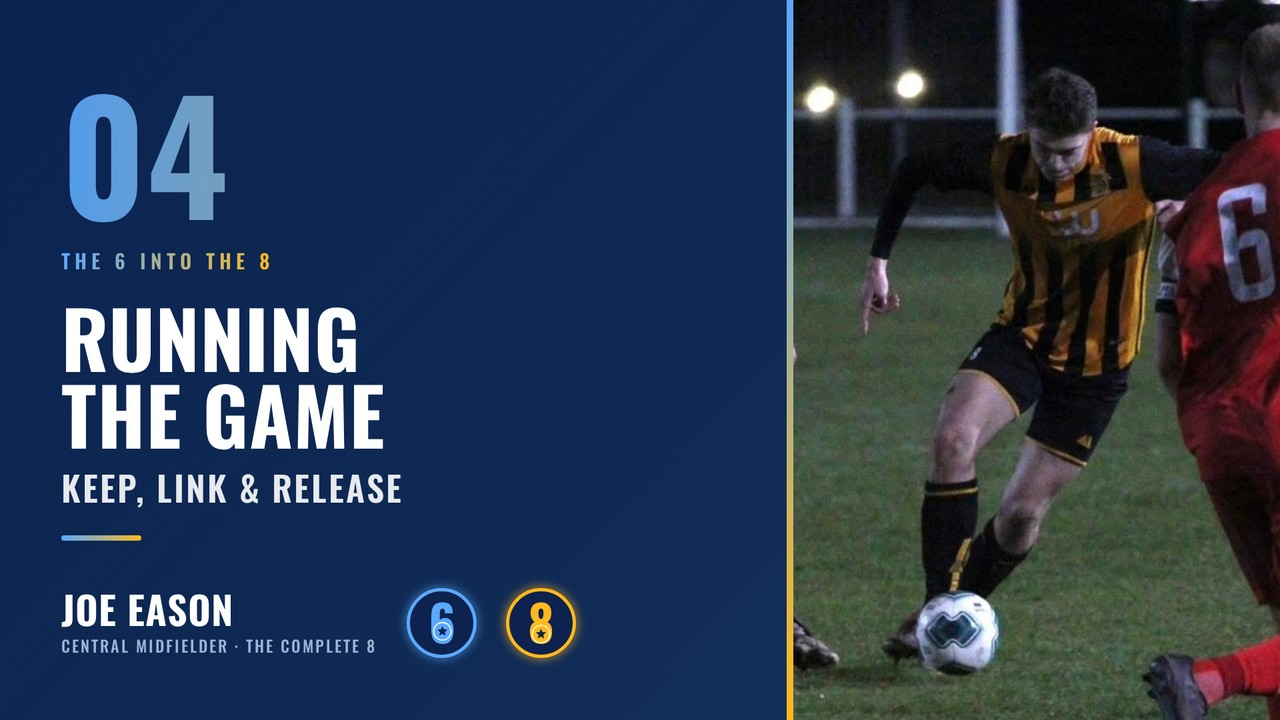
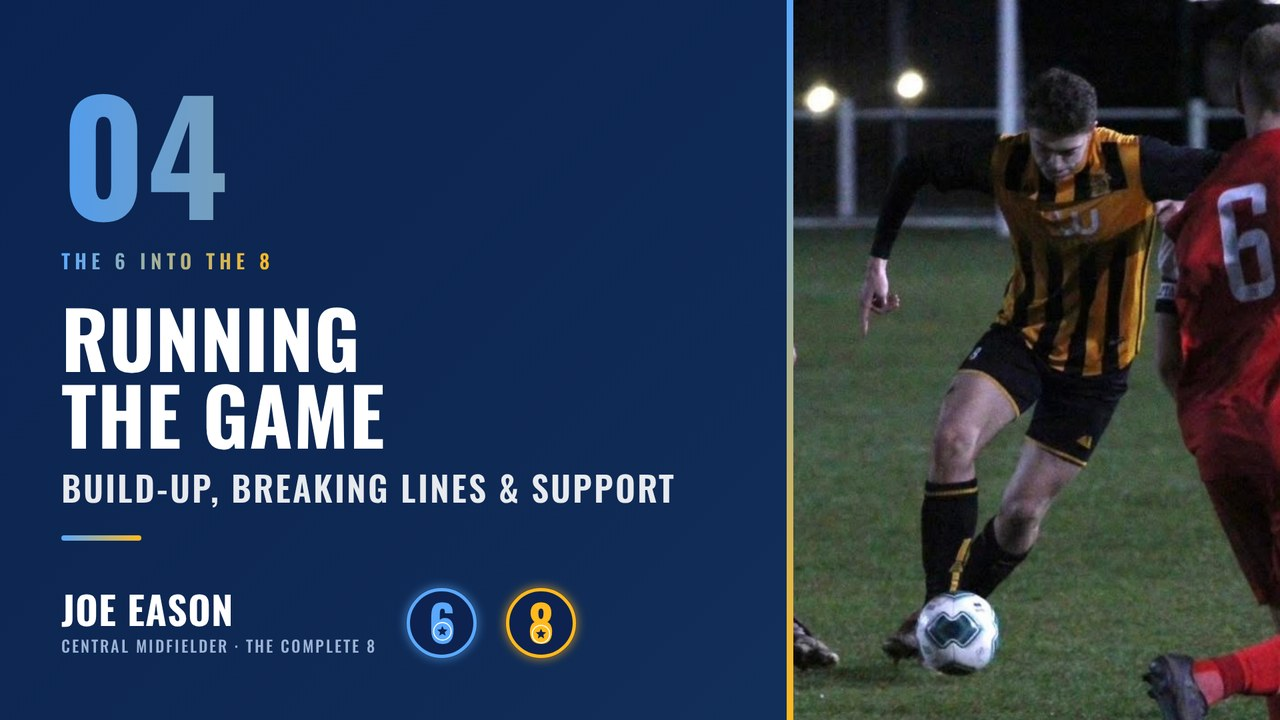
Video names

Changed region(s): [[0.0312, 0.6417, 0.5312, 0.7028]]

diff --git a/_test-home-8.html b/_test-home-8.html
@@ -1169,13 +1169,13 @@
             <g transform="translate(702.23 468.98)"><g class="petal-play"><circle r="24" fill="rgba(0,48,135,0.95)" stroke="#fff" stroke-width="2"/><polygon points="-7,-10 -7,10 10,0" fill="#fff"/></g></g>
             <g class="pt-full"><text x="602.79" y="428.28" class="petal-title" text-anchor="middle"><tspan x="602.79" dy="0">Range of</tspan><tspan x="602.79" dy="18">Passing</tspan><tspan x="602.79" dy="18" class="petal-sub">Forward Balls,</tspan><tspan x="602.79" dy="16" class="petal-sub">Switches &amp; Crosses</tspan></text>
           <text x="602.79" y="404.28" class="petal-num" text-anchor="middle">03</text></g><g class="pt-big"><text x="602.79" y="416.78" class="petal-num pt-n" text-anchor="middle">03</text><text x="602.79" y="443.78" class="pt-t" text-anchor="middle"><tspan x="602.79" dy="0">Range of</tspan><tspan x="602.79" dy="25">Passing</tspan></text></g></a>
-          <a href="https://www.youtube.com/watch?v=YSjKQWCiEPw" target="_blank" rel="noopener" class="petal gh" data-vid="YSjKQWCiEPw" data-title="Running the Game: Keep, Link &amp; Release" aria-label="Running the Game: Keep, Link & Release — play video">
+          <a href="https://www.youtube.com/watch?v=YSjKQWCiEPw" target="_blank" rel="noopener" class="petal gh" data-vid="YSjKQWCiEPw" data-title="Running the Game: Build-Up, Breaking Lines &amp; Support" aria-label="Running the Game: Build-Up, Breaking Lines & Support — play video">
             <path d="M 513.26 495.27 A 148 148 0 0 1 403.87 547.95 L 409.95 779.87 A 380 380 0 0 0 690.79 644.62 Z" fill="url(#pat-p3)" class="petal-img"/>
             <path d="M 513.26 495.27 A 148 148 0 0 1 403.87 547.95 L 409.95 779.87 A 380 380 0 0 0 690.79 644.62 Z" fill="url(#darken)" class="petal-shade"/>
             <path d="M 513.26 495.27 A 148 148 0 0 1 403.87 547.95 L 409.95 779.87 A 380 380 0 0 0 690.79 644.62 Z" class="petal-stroke" fill="none"/>
             <g transform="translate(534.50 679.30)"><g class="petal-play"><circle r="24" fill="rgba(0,48,135,0.95)" stroke="#fff" stroke-width="2"/><polygon points="-7,-10 -7,10 10,0" fill="#fff"/></g></g>
-            <g class="pt-full"><text x="490.25" y="587.40" class="petal-title" text-anchor="middle"><tspan x="490.25" dy="0">Running the Game</tspan><tspan x="490.25" dy="18" class="petal-sub">Keep, Link &amp; Release</tspan></text>
-          <text x="490.25" y="563.40" class="petal-num" text-anchor="middle">04</text></g><g class="pt-big"><text x="490.25" y="558.90" class="petal-num pt-n" text-anchor="middle">04</text><text x="490.25" y="585.90" class="pt-t" text-anchor="middle"><tspan x="490.25" dy="0">Running</tspan><tspan x="490.25" dy="25">the Game</tspan></text></g></a>
+            <g class="pt-full"><text x="490.25" y="579.40" class="petal-title" text-anchor="middle"><tspan x="490.25" dy="0">Running the Game</tspan><tspan x="490.25" dy="18" class="petal-sub">Build-Up, Breaking Lines</tspan><tspan x="490.25" dy="16" class="petal-sub">&amp; Support</tspan></text>
+          <text x="490.25" y="555.40" class="petal-num" text-anchor="middle">04</text></g><g class="pt-big"><text x="490.25" y="558.90" class="petal-num pt-n" text-anchor="middle">04</text><text x="490.25" y="585.90" class="pt-t" text-anchor="middle"><tspan x="490.25" dy="0">Running</tspan><tspan x="490.25" dy="25">the Game</tspan></text></g></a>
           <a href="https://www.youtube.com/watch?v=tidNVF270xU" target="_blank" rel="noopener" class="petal g8" data-vid="tidNVF270xU" data-title="Driving the Team Forward: Ball Carrying" aria-label="Driving the Team Forward: Ball Carrying — play video">
             <path d="M 396.13 547.95 A 148 148 0 0 1 286.74 495.27 L 109.21 644.62 A 380 380 0 0 0 390.05 779.87 Z" fill="url(#pat-p4)" class="petal-img"/>
             <path d="M 396.13 547.95 A 148 148 0 0 1 286.74 495.27 L 109.21 644.62 A 380 380 0 0 0 390.05 779.87 Z" fill="url(#darken)" class="petal-shade"/>
@@ -1234,9 +1234,9 @@
           <div class="m-tile-body"><h3><span class="m-num">03</span>Range of Passing: Forward Balls, Switches &amp; Crosses</h3><p>Switching play, crossing, delivery</p></div>
         </a>
         <div class="m-group gh"><b>Running the Game</b>The 6 into the 8 &middot; 04</div>
-        <a href="https://www.youtube.com/watch?v=YSjKQWCiEPw" target="_blank" rel="noopener" class="m-tile gh" data-vid="YSjKQWCiEPw" data-title="Running the Game: Keep, Link &amp; Release">
+        <a href="https://www.youtube.com/watch?v=YSjKQWCiEPw" target="_blank" rel="noopener" class="m-tile gh" data-vid="YSjKQWCiEPw" data-title="Running the Game: Build-Up, Breaking Lines &amp; Support">
           <div class="m-tile-thumb"><img src="img/card-04.jpg" alt=""></div>
-          <div class="m-tile-body"><h3><span class="m-num">04</span>Running the Game: Keep, Link &amp; Release</h3><p>Keeping it, linking play, releasing runners</p></div>
+          <div class="m-tile-body"><h3><span class="m-num">04</span>Running the Game: Build-Up, Breaking Lines &amp; Support</h3><p>Playing through, always available, setting the pace</p></div>
         </a>
         <div class="m-group g8"><b>The 8</b>Box to box &middot; 05&ndash;07</div>
         <a href="https://www.youtube.com/watch?v=tidNVF270xU" target="_blank" rel="noopener" class="m-tile g8" data-vid="tidNVF270xU" data-title="Driving the Team Forward: Ball Carrying">
@@ -1270,7 +1270,7 @@
         <p>Seven competencies on film at Step 4 and Step 5, plus the intangibles that make the eighth &mdash; and the end product it all adds up to.</p>
         <a class="h8-analysis" href="central-midfielder.html"><span>What makes a good all-round central midfielder?</span><b>Read the analysis <i class="fas fa-arrow-right"></i></b></a>
         <div class="kg kg6"><div class="kg-h"><span class="kg-t">The 6</span><span class="kg-s">Holding midfielder &middot; 01&ndash;03</span></div><a class="ki" data-k="0" href="https://www.youtube.com/watch?v=nmPGCvV8c5w" target="_blank" rel="noopener" data-vid="nmPGCvV8c5w" data-title="Press Resistance: Receiving &amp; Turning"><b>01</b><span class="ki-t">Press Resistance</span><span class="ki-s">Receiving &amp; Turning</span><span class="ki-d">Back foot, play forward</span></a><a class="ki" data-k="1" href="https://www.youtube.com/watch?v=CUZYd_yoax8" target="_blank" rel="noopener" data-vid="CUZYd_yoax8" data-title="Screening the Back Four: Blocks, Cover &amp; Interceptions"><b>02</b><span class="ki-t">Screening the Back Four</span><span class="ki-s">Blocks, Cover &amp; Interceptions</span><span class="ki-d">Reading it, stepping in, screening the back four</span></a><a class="ki" data-k="2" href="https://www.youtube.com/watch?v=DRo2E2lNBT0" target="_blank" rel="noopener" data-vid="DRo2E2lNBT0" data-title="Range of Passing: Forward Balls, Switches &amp; Crosses"><b>03</b><span class="ki-t">Range of Passing</span><span class="ki-s">Forward Balls, Switches &amp; Crosses</span><span class="ki-d">Switching play, crossing, delivery</span></a></div>
-        <div class="kg kgh"><div class="kg-h"><span class="kg-t">Running the Game</span><span class="kg-s">The 6 into the 8 &middot; 04</span></div><a class="ki" data-k="3" href="https://www.youtube.com/watch?v=YSjKQWCiEPw" target="_blank" rel="noopener" data-vid="YSjKQWCiEPw" data-title="Running the Game: Keep, Link &amp; Release"><b>04</b><span class="ki-t">Running the Game</span><span class="ki-s">Keep, Link &amp; Release</span><span class="ki-d">Keeping it, linking play, releasing runners</span></a></div>
+        <div class="kg kgh"><div class="kg-h"><span class="kg-t">Running the Game</span><span class="kg-s">The 6 into the 8 &middot; 04</span></div><a class="ki" data-k="3" href="https://www.youtube.com/watch?v=YSjKQWCiEPw" target="_blank" rel="noopener" data-vid="YSjKQWCiEPw" data-title="Running the Game: Build-Up, Breaking Lines &amp; Support"><b>04</b><span class="ki-t">Running the Game</span><span class="ki-s">Build-Up, Breaking Lines &amp; Support</span><span class="ki-d">Playing through, always available, setting the pace</span></a></div>
         <div class="kg kg8"><div class="kg-h"><span class="kg-t">The 8</span><span class="kg-s">Box to box &middot; 05&ndash;07</span></div><a class="ki" data-k="4" href="https://www.youtube.com/watch?v=tidNVF270xU" target="_blank" rel="noopener" data-vid="tidNVF270xU" data-title="Driving the Team Forward: Ball Carrying"><b>05</b><span class="ki-t">Driving the Team Forward</span><span class="ki-s">Ball Carrying</span><span class="ki-d">Driving runs, beating pressure</span></a><a class="ki" data-k="5" href="https://www.youtube.com/watch?v=xvypi_6BQps" target="_blank" rel="noopener" data-vid="xvypi_6BQps" data-title="Winning the Battles: Tackles, Recovery Runs &amp; Headers"><b>06</b><span class="ki-t">Winning the Battles</span><span class="ki-s">Tackles, Recovery Runs &amp; Headers</span><span class="ki-d">Going in, getting back, winning in the air</span></a><a class="ki" data-k="6" href="https://www.youtube.com/watch?v=DMwCNd98Mjw" target="_blank" rel="noopener" data-vid="DMwCNd98Mjw" data-title="Technical Quality: First Touch, Volleys &amp; Quick Feet"><b>07</b><span class="ki-t">Technical Quality</span><span class="ki-s">First Touch, Volleys &amp; Quick Feet</span><span class="ki-d">First touch, composure, execution</span></a></div>
         <div class="kg kg10"><div class="kg-h"><span class="kg-t">08 + The 10</span><span class="kg-s">In the middle</span></div><a class="ki ki8th" data-k="8th" href="central-midfielder.html#leadership"><b>08</b><span class="ki-t">The Bit You Can&rsquo;t Coach</span><span class="ki-s">The Intangibles</span><span class="ki-d">Leadership and on-field personality</span></a><a class="ki ki10" data-k="10" href="https://www.youtube.com/watch?v=8nT0fmOoSeg" target="_blank" rel="noopener" data-vid="8nT0fmOoSeg" data-title="End Product: Chances Created, Assists &amp; Goals" data-more="central-midfielder.html#end-product"><b>10</b><span class="ki-t">End Product</span><span class="ki-s">Chances Created, Assists &amp; Goals</span><span class="ki-d">From senior men&rsquo;s football at Step 5 and Step 4</span></a></div>
       </div>

diff --git a/index.html b/index.html
@@ -1164,13 +1164,13 @@
             <g transform="translate(702.23 468.98)"><g class="petal-play"><circle r="24" fill="rgba(0,48,135,0.95)" stroke="#fff" stroke-width="2"/><polygon points="-7,-10 -7,10 10,0" fill="#fff"/></g></g>
             <g class="pt-full"><text x="602.79" y="428.28" class="petal-title" text-anchor="middle"><tspan x="602.79" dy="0">Range of</tspan><tspan x="602.79" dy="18">Passing</tspan><tspan x="602.79" dy="18" class="petal-sub">Forward Balls,</tspan><tspan x="602.79" dy="16" class="petal-sub">Switches &amp; Crosses</tspan></text>
           <text x="602.79" y="404.28" class="petal-num" text-anchor="middle">03</text></g><g class="pt-big"><text x="602.79" y="416.78" class="petal-num pt-n" text-anchor="middle">03</text><text x="602.79" y="443.78" class="pt-t" text-anchor="middle"><tspan x="602.79" dy="0">Range of</tspan><tspan x="602.79" dy="25">Passing</tspan></text></g></a>
-          <a href="https://www.youtube.com/watch?v=YSjKQWCiEPw" target="_blank" rel="noopener" class="petal gh" data-vid="YSjKQWCiEPw" data-title="Running the Game: Keep, Link &amp; Release" aria-label="Running the Game: Keep, Link & Release — play video">
+          <a href="https://www.youtube.com/watch?v=YSjKQWCiEPw" target="_blank" rel="noopener" class="petal gh" data-vid="YSjKQWCiEPw" data-title="Running the Game: Build-Up, Breaking Lines &amp; Support" aria-label="Running the Game: Build-Up, Breaking Lines & Support — play video">
             <path d="M 513.26 495.27 A 148 148 0 0 1 403.87 547.95 L 409.95 779.87 A 380 380 0 0 0 690.79 644.62 Z" fill="url(#pat-p3)" class="petal-img"/>
             <path d="M 513.26 495.27 A 148 148 0 0 1 403.87 547.95 L 409.95 779.87 A 380 380 0 0 0 690.79 644.62 Z" fill="url(#darken)" class="petal-shade"/>
             <path d="M 513.26 495.27 A 148 148 0 0 1 403.87 547.95 L 409.95 779.87 A 380 380 0 0 0 690.79 644.62 Z" class="petal-stroke" fill="none"/>
             <g transform="translate(534.50 679.30)"><g class="petal-play"><circle r="24" fill="rgba(0,48,135,0.95)" stroke="#fff" stroke-width="2"/><polygon points="-7,-10 -7,10 10,0" fill="#fff"/></g></g>
-            <g class="pt-full"><text x="490.25" y="587.40" class="petal-title" text-anchor="middle"><tspan x="490.25" dy="0">Running the Game</tspan><tspan x="490.25" dy="18" class="petal-sub">Keep, Link &amp; Release</tspan></text>
-          <text x="490.25" y="563.40" class="petal-num" text-anchor="middle">04</text></g><g class="pt-big"><text x="490.25" y="558.90" class="petal-num pt-n" text-anchor="middle">04</text><text x="490.25" y="585.90" class="pt-t" text-anchor="middle"><tspan x="490.25" dy="0">Running</tspan><tspan x="490.25" dy="25">the Game</tspan></text></g></a>
+            <g class="pt-full"><text x="490.25" y="579.40" class="petal-title" text-anchor="middle"><tspan x="490.25" dy="0">Running the Game</tspan><tspan x="490.25" dy="18" class="petal-sub">Build-Up, Breaking Lines</tspan><tspan x="490.25" dy="16" class="petal-sub">&amp; Support</tspan></text>
+          <text x="490.25" y="555.40" class="petal-num" text-anchor="middle">04</text></g><g class="pt-big"><text x="490.25" y="558.90" class="petal-num pt-n" text-anchor="middle">04</text><text x="490.25" y="585.90" class="pt-t" text-anchor="middle"><tspan x="490.25" dy="0">Running</tspan><tspan x="490.25" dy="25">the Game</tspan></text></g></a>
           <a href="https://www.youtube.com/watch?v=tidNVF270xU" target="_blank" rel="noopener" class="petal g8" data-vid="tidNVF270xU" data-title="Driving the Team Forward: Ball Carrying" aria-label="Driving the Team Forward: Ball Carrying — play video">
             <path d="M 396.13 547.95 A 148 148 0 0 1 286.74 495.27 L 109.21 644.62 A 380 380 0 0 0 390.05 779.87 Z" fill="url(#pat-p4)" class="petal-img"/>
             <path d="M 396.13 547.95 A 148 148 0 0 1 286.74 495.27 L 109.21 644.62 A 380 380 0 0 0 390.05 779.87 Z" fill="url(#darken)" class="petal-shade"/>
@@ -1229,9 +1229,9 @@
           <div class="m-tile-body"><h3><span class="m-num">03</span>Range of Passing: Forward Balls, Switches &amp; Crosses</h3><p>Switching play, crossing, delivery</p></div>
         </a>
         <div class="m-group gh"><b>Running the Game</b>The 6 into the 8 &middot; 04</div>
-        <a href="https://www.youtube.com/watch?v=YSjKQWCiEPw" target="_blank" rel="noopener" class="m-tile gh" data-vid="YSjKQWCiEPw" data-title="Running the Game: Keep, Link &amp; Release">
+        <a href="https://www.youtube.com/watch?v=YSjKQWCiEPw" target="_blank" rel="noopener" class="m-tile gh" data-vid="YSjKQWCiEPw" data-title="Running the Game: Build-Up, Breaking Lines &amp; Support">
           <div class="m-tile-thumb"><img src="img/card-04.jpg" alt=""></div>
-          <div class="m-tile-body"><h3><span class="m-num">04</span>Running the Game: Keep, Link &amp; Release</h3><p>Keeping it, linking play, releasing runners</p></div>
+          <div class="m-tile-body"><h3><span class="m-num">04</span>Running the Game: Build-Up, Breaking Lines &amp; Support</h3><p>Playing through, always available, setting the pace</p></div>
         </a>
         <div class="m-group g8"><b>The 8</b>Box to box &middot; 05&ndash;07</div>
         <a href="https://www.youtube.com/watch?v=tidNVF270xU" target="_blank" rel="noopener" class="m-tile g8" data-vid="tidNVF270xU" data-title="Driving the Team Forward: Ball Carrying">
@@ -1265,7 +1265,7 @@
         <p>Seven competencies on film at Step 4 and Step 5, plus the intangibles that make the eighth &mdash; and the end product it all adds up to.</p>
         <a class="h8-analysis" href="central-midfielder.html"><span>What makes a good all-round central midfielder?</span><b>Read the analysis <i class="fas fa-arrow-right"></i></b></a>
         <div class="kg kg6"><div class="kg-h"><span class="kg-t">The 6</span><span class="kg-s">Holding midfielder &middot; 01&ndash;03</span></div><a class="ki" data-k="0" href="https://www.youtube.com/watch?v=nmPGCvV8c5w" target="_blank" rel="noopener" data-vid="nmPGCvV8c5w" data-title="Press Resistance: Receiving &amp; Turning"><b>01</b><span class="ki-t">Press Resistance</span><span class="ki-s">Receiving &amp; Turning</span><span class="ki-d">Back foot, play forward</span></a><a class="ki" data-k="1" href="https://www.youtube.com/watch?v=CUZYd_yoax8" target="_blank" rel="noopener" data-vid="CUZYd_yoax8" data-title="Screening the Back Four: Blocks, Cover &amp; Interceptions"><b>02</b><span class="ki-t">Screening the Back Four</span><span class="ki-s">Blocks, Cover &amp; Interceptions</span><span class="ki-d">Reading it, stepping in, screening the back four</span></a><a class="ki" data-k="2" href="https://www.youtube.com/watch?v=DRo2E2lNBT0" target="_blank" rel="noopener" data-vid="DRo2E2lNBT0" data-title="Range of Passing: Forward Balls, Switches &amp; Crosses"><b>03</b><span class="ki-t">Range of Passing</span><span class="ki-s">Forward Balls, Switches &amp; Crosses</span><span class="ki-d">Switching play, crossing, delivery</span></a></div>
-        <div class="kg kgh"><div class="kg-h"><span class="kg-t">Running the Game</span><span class="kg-s">The 6 into the 8 &middot; 04</span></div><a class="ki" data-k="3" href="https://www.youtube.com/watch?v=YSjKQWCiEPw" target="_blank" rel="noopener" data-vid="YSjKQWCiEPw" data-title="Running the Game: Keep, Link &amp; Release"><b>04</b><span class="ki-t">Running the Game</span><span class="ki-s">Keep, Link &amp; Release</span><span class="ki-d">Keeping it, linking play, releasing runners</span></a></div>
+        <div class="kg kgh"><div class="kg-h"><span class="kg-t">Running the Game</span><span class="kg-s">The 6 into the 8 &middot; 04</span></div><a class="ki" data-k="3" href="https://www.youtube.com/watch?v=YSjKQWCiEPw" target="_blank" rel="noopener" data-vid="YSjKQWCiEPw" data-title="Running the Game: Build-Up, Breaking Lines &amp; Support"><b>04</b><span class="ki-t">Running the Game</span><span class="ki-s">Build-Up, Breaking Lines &amp; Support</span><span class="ki-d">Playing through, always available, setting the pace</span></a></div>
         <div class="kg kg8"><div class="kg-h"><span class="kg-t">The 8</span><span class="kg-s">Box to box &middot; 05&ndash;07</span></div><a class="ki" data-k="4" href="https://www.youtube.com/watch?v=tidNVF270xU" target="_blank" rel="noopener" data-vid="tidNVF270xU" data-title="Driving the Team Forward: Ball Carrying"><b>05</b><span class="ki-t">Driving the Team Forward</span><span class="ki-s">Ball Carrying</span><span class="ki-d">Driving runs, beating pressure</span></a><a class="ki" data-k="5" href="https://www.youtube.com/watch?v=xvypi_6BQps" target="_blank" rel="noopener" data-vid="xvypi_6BQps" data-title="Winning the Battles: Tackles, Recovery Runs &amp; Headers"><b>06</b><span class="ki-t">Winning the Battles</span><span class="ki-s">Tackles, Recovery Runs &amp; Headers</span><span class="ki-d">Going in, getting back, winning in the air</span></a><a class="ki" data-k="6" href="https://www.youtube.com/watch?v=DMwCNd98Mjw" target="_blank" rel="noopener" data-vid="DMwCNd98Mjw" data-title="Technical Quality: First Touch, Volleys &amp; Quick Feet"><b>07</b><span class="ki-t">Technical Quality</span><span class="ki-s">First Touch, Volleys &amp; Quick Feet</span><span class="ki-d">First touch, composure, execution</span></a></div>
         <div class="kg kg10"><div class="kg-h"><span class="kg-t">08 + The 10</span><span class="kg-s">In the middle</span></div><a class="ki ki8th" data-k="8th" href="central-midfielder.html#leadership"><b>08</b><span class="ki-t">The Bit You Can&rsquo;t Coach</span><span class="ki-s">The Intangibles</span><span class="ki-d">Leadership and on-field personality</span></a><a class="ki ki10" data-k="10" href="https://www.youtube.com/watch?v=8nT0fmOoSeg" target="_blank" rel="noopener" data-vid="8nT0fmOoSeg" data-title="End Product: Chances Created, Assists &amp; Goals" data-more="central-midfielder.html#end-product"><b>10</b><span class="ki-t">End Product</span><span class="ki-s">Chances Created, Assists &amp; Goals</span><span class="ki-d">From senior men&rsquo;s football at Step 5 and Step 4</span></a></div>
       </div>

diff --git a/central-midfielder.html b/central-midfielder.html
@@ -785,7 +785,7 @@
       </button>
       <button class="c8-tab gh" data-tab="4" role="tab" aria-selected="false" type="button">
         <div class="c8-tab-thumb"><img src="img/card-04.jpg" alt=""><span class="c8-tab-num">04</span></div>
-        <div class="c8-tab-title">Running the Game: Keep, Link &amp; Release</div>
+        <div class="c8-tab-title">Running the Game: Build-Up, Breaking Lines &amp; Support</div>
       </button>
       <button class="c8-tab g8" data-tab="1" role="tab" aria-selected="false" type="button">
         <div class="c8-tab-thumb"><img src="img/card-05.jpg" alt=""><span class="c8-tab-num">05</span></div>
@@ -988,19 +988,19 @@
         </div>
       </div>
 
-      <!-- PANEL 4 — RUNNING THE GAME: KEEP, LINK & RELEASE (6 into 8) -->
+      <!-- PANEL 4 — RUNNING THE GAME: BUILD-UP, BREAKING LINES & SUPPORT (6 into 8) -->
       <div class="c8-panel gh" data-panel="4" role="tabpanel">
         <div class="case">
           <div class="case-banner">
             <span class="num">04</span>
             <div class="heads">
               <span class="role">What a complete 8 needs to do</span>
-              <h3>Running the Game: Keep, Link &amp; Release</h3>
+              <h3>Running the Game: Build-Up, Breaking Lines &amp; Support</h3>
             </div>
           </div>
           <p class="case-lead">The 8 sets the speed of the team. When possession needs to settle, they <strong>slow it</strong>. When the moment is right to go through the lines, they <strong>speed it up</strong>. Tempo is decided in midfield more than anywhere else on the pitch.</p>
           <a href="https://www.youtube.com/watch?v=YSjKQWCiEPw" target="_blank" rel="noopener" class="skill-video" data-vid="YSjKQWCiEPw" id="vid-4">
-            <img src="img/card-04.jpg" alt="Running the Game: Keep, Link & Release">
+            <img src="img/card-04.jpg" alt="Running the Game: Build-Up, Breaking Lines & Support">
             <div class="play-btn"><i class="fas fa-play"></i></div>
             <div class="vid-label"><i class="fas fa-play" style="font-size:8px;margin-right:4px;"></i> Watch Video</div>
           </a>

diff --git a/_c8-start-card.html b/_c8-start-card.html
@@ -52,6 +52,8 @@ document.getElementById('num').textContent=q.get('n')||'';
 document.getElementById('eyebrow').textContent=q.get('e')||'';
 const t=document.getElementById('title'); t.innerHTML=q.get('t')||''; if((q.get('t')||'').length>22) t.classList.add('long');
 const s=document.getElementById('subt'); if(q.get('s')) s.textContent=q.get('s'); else s.remove();
+// a subline that only just spills onto a second line gets its letter-spacing eased until it fits on one (8 Nov 2026)
+document.fonts.ready.then(function(){const e=document.getElementById('subt'); if(!e) return; const lh=parseFloat(getComputedStyle(e).lineHeight)||e.getBoundingClientRect().height; let ls=3; const one=()=>{e.style.whiteSpace='nowrap'; const h1=e.getBoundingClientRect().height; e.style.whiteSpace=''; return h1;}; const h1=one(); while(e.getBoundingClientRect().height>h1+2 && ls>1.6){ls=+(ls-0.2).toFixed(1); e.style.letterSpacing=ls+'px';}});
 const p=document.getElementById('photo'); const im=q.get('img')||''; p.src=im.includes('/')?im:'img/'+im; p.style.objectPosition=q.get('pos')||'center'; if(q.get('zoom')){p.style.transformOrigin=q.get('zo')||(q.get('pos')||'center'); p.style.transform='scale('+q.get('zoom')+')';}
 
 // optional 6 / 8 badges beside the name (?b=6 | 8 | 68), same design as the video rings.
